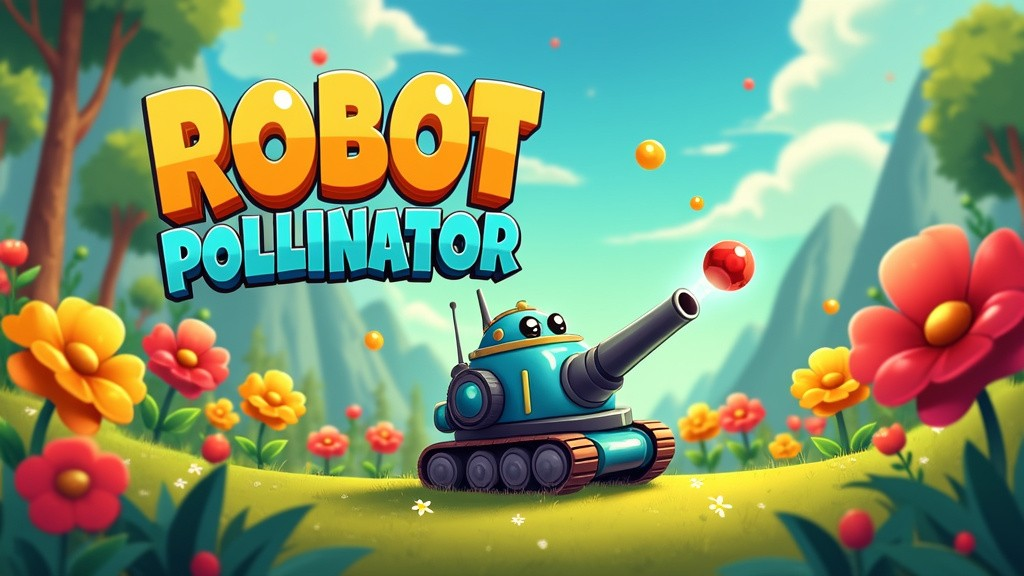
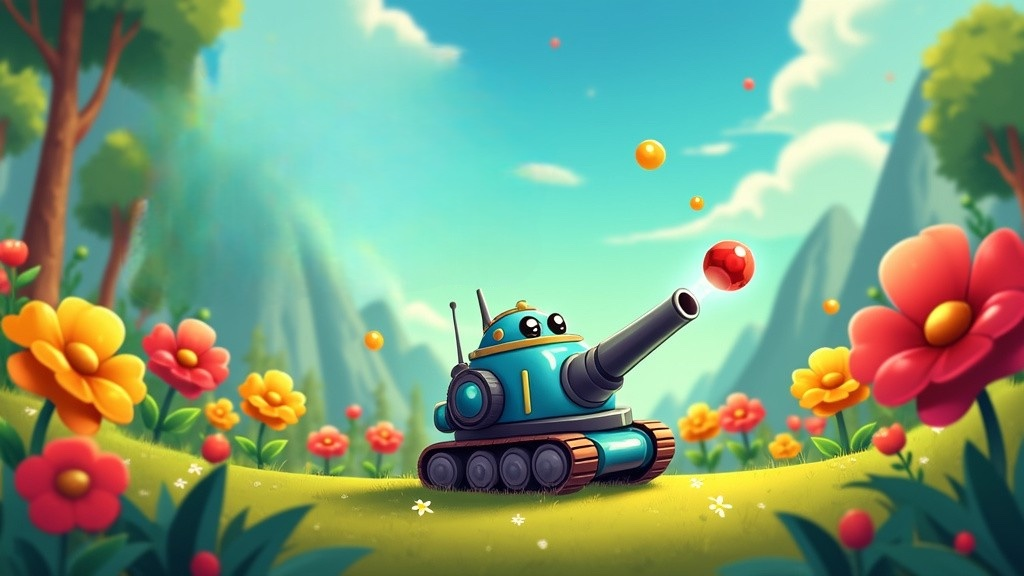
Added touch dynamics. Tap, double-tap and long-press.

Changed region(s): [[0.125, 0.0625, 0.5312, 0.5312]]

diff --git a/assets/js/game.js b/assets/js/game.js
@@ -22,9 +22,16 @@ function isMobileDevice() {
   );
 }
 
-// Usage example
 let isMobile = isMobileDevice();
 let gameMode = 'desktop';
+let bg = '';
+let title = '';
+
+// Mouse position tracking
+let mouseX = 0;
+let mouseY = 0;
+let touch;
+
 if (isMobile) {
   console.log("You're on a mobile device!");
   gameMode = 'mobile';
@@ -67,8 +74,8 @@ let gameSettings = {
   pointsPerMatch: 100,
   penaltyPoints: 100,
   bgMusic: '',
-  bgImage: 'assets/backgrounds/terrain.jpg',
-  titleBgImage: 'assets/backgrounds/title.jpg'
+  bgImage: bg,
+  titleBgImage: title
 };
 
 // Load settings from localStorage
@@ -385,14 +392,6 @@ class PollenBall {
     }
 }
 
-// Add mouse position tracking
-let mouseX = 0;
-let mouseY = 0;
-
-window.addEventListener('mousemove', (e) => {
-    mouseX = e.clientX;
-    mouseY = e.clientY - 100;
-});
 
 // Update robot drawing to show quadcopter appearance and current color
 function drawRobot() {
@@ -578,49 +577,163 @@ function gameLoop() {
 }
 
 // Event listeners
-window.addEventListener('contextmenu', (e) => {
-    e.preventDefault();
+if (gameActive && isMobile  === true) {
+
+  let tapCount = 0; // Variable to keep track of tap count
+  let lastTapTime = 0; // Variable to store the timestamp of the last tap
+  let longPressTimer = null; // Timer for long press
+  let longPressDelay = 1000; // Delay in milliseconds for long press
+  let preventLongPress = false; // Flag to prevent long press default behavior
+  const doubleTapDelay = 100; // Maximum time delay (in milliseconds) between two taps to be considered a double tap
+
+  // Add event listeners for touch events
+  document.addEventListener('touchstart', handleTouchStart, false);
+  document.addEventListener('touchend', handleTouchEnd, false);
+
+  function handleTouchStart(event) {
+    if (preventLongPress) {
+      event.preventDefault();
+    }
+    // Get the touch point coordinates
+    touch = event.touches[0]; // Get the first touch point
+
+    lastTapTime = new Date().getTime(); // Update the last tap timestamp
+
+    // Start the long press timer
+    longPressTimer = setTimeout(handleLongPress, longPressDelay);
+  }
+
+  function handleTouchEnd(event) {
+    if (preventLongPress) {
+      event.preventDefault();
+    }
+    // Clear the long press timer if a long press didn't occur
+    clearTimeout(longPressTimer);
+    longPressTimer = null;
+
+    const currentTime = new Date().getTime();
+    const tapDelay = currentTime - lastTapTime;
+
+    // Check if the tap delay is within the double tap delay threshold
+    if (tapDelay < doubleTapDelay) {
+      tapCount++;
+    } else {
+      tapCount = 1; // Reset the tap count for a new single tap
+    }
+
+    // Handle single tap and double tap events
+    if (tapCount === 1) {
+      // Single tap event
+      console.log('Single tap detected');
+      // Add your single tap logic here
+      mouseX = touch.clientX;
+      mouseY = touch.clientY - 100;
+    } else if (tapCount === 2) {
+      // Double tap event
+      console.log('Double tap detected');
+      // Add your double tap logic here
+      if (currentPollenColor) { 
+        document.getElementById('shootSound').play();
+        const angle = Math.atan2(mouseY - robot.y, mouseX - robot.x);
+        const speed = 10;
+        const count = currentPollenColors.get(currentPollenColor);
+        if (count > 0) {
+            pollenBalls.push(new PollenBall(
+                robot.x, robot.y,
+                Math.cos(angle) * speed,
+                Math.sin(angle) * speed,
+                currentPollenColor
+            ));
+            currentPollenColors.set(currentPollenColor, count - 1);
+            if (count === 1) {
+                currentPollenColors.delete(currentPollenColor);
+                const colors = Array.from(currentPollenColors.keys());
+                currentPollenColor = colors.length > 1 ? colors[0] : null;
+            }
+            if (currentPollenColors.get(currentPollenColor) == 0) {
+                currentPollenColors.delete(currentPollenColor);
+                if (currentPollenColors.size > 0) {
+                    currentPollenColor = Array.from(currentPollenColors.keys())[0];
+                } else {
+                    currentPollenColor = null;
+                }
+            } 
+        }       
+      updatePollenDisplay();  
+      }
+      tapCount = 0; // Reset the tap count
+      // Reset the preventLongPress flag
+      preventLongPress = false;
+    }
+  }
+
+  function handleLongPress() {
+    // Set the preventLongPress flag to true
+    preventLongPress = true;
+    // Handle long press event
+    console.log('Long press detected');
+    // Add your long press logic here
     if (currentPollenColors.size > 0) {
-        const colors = Array.from(currentPollenColors.keys());
-        const currentIndex = colors.indexOf(currentPollenColor);
-        currentPollenColor = colors[(currentIndex + 1) % colors.length];
+      const colors = Array.from(currentPollenColors.keys());
+      const currentIndex = colors.indexOf(currentPollenColor);
+      currentPollenColor = colors[(currentIndex + 1) % colors.length];
     }else{
       currentPollenColors.clear();
-    }
-});
-
-window.addEventListener('mousedown', (e) => {
-  if (e.button === 0 && currentPollenColor) { // Left click
-    document.getElementById('shootSound').play();
-    const angle = Math.atan2(mouseY - robot.y, mouseX - robot.x);
-    const speed = 10;
-    const count = currentPollenColors.get(currentPollenColor);
-    if (count > 0) {
-        pollenBalls.push(new PollenBall(
-            robot.x, robot.y,
-            Math.cos(angle) * speed,
-            Math.sin(angle) * speed,
-            currentPollenColor
-        ));
-        currentPollenColors.set(currentPollenColor, count - 1);
-        if (count === 1) {
-            currentPollenColors.delete(currentPollenColor);
-            const colors = Array.from(currentPollenColors.keys());
-            currentPollenColor = colors.length > 1 ? colors[0] : null;
-        }
-        if (currentPollenColors.get(currentPollenColor) == 0) {
-            currentPollenColors.delete(currentPollenColor);
-            if (currentPollenColors.size > 0) {
-                currentPollenColor = Array.from(currentPollenColors.keys())[0];
-            } else {
-                currentPollenColor = null;
-            }
-        } 
-    }       
-  updatePollenDisplay();  
+    }  
+    // Clear the long press timer
+    clearTimeout(longPressTimer);
+    longPressTimer = null;
   }
-});
 
+} else {
+  window.addEventListener('mousemove', (e) => {
+      mouseX = e.clientX;
+      mouseY = e.clientY - 100;
+  });
+
+  window.addEventListener('contextmenu', (e) => {
+      e.preventDefault();
+      if (currentPollenColors.size > 0) {
+          const colors = Array.from(currentPollenColors.keys());
+          const currentIndex = colors.indexOf(currentPollenColor);
+          currentPollenColor = colors[(currentIndex + 1) % colors.length];
+      }else{
+        currentPollenColors.clear();
+      }
+  });
+
+  window.addEventListener('mousedown', (e) => {
+    if (e.button === 0 && currentPollenColor) { // Left click
+      document.getElementById('shootSound').play();
+      const angle = Math.atan2(mouseY - robot.y, mouseX - robot.x);
+      const speed = 10;
+      const count = currentPollenColors.get(currentPollenColor);
+      if (count > 0) {
+          pollenBalls.push(new PollenBall(
+              robot.x, robot.y,
+              Math.cos(angle) * speed,
+              Math.sin(angle) * speed,
+              currentPollenColor
+          ));
+          currentPollenColors.set(currentPollenColor, count - 1);
+          if (count === 1) {
+              currentPollenColors.delete(currentPollenColor);
+              const colors = Array.from(currentPollenColors.keys());
+              currentPollenColor = colors.length > 1 ? colors[0] : null;
+          }
+          if (currentPollenColors.get(currentPollenColor) == 0) {
+              currentPollenColors.delete(currentPollenColor);
+              if (currentPollenColors.size > 0) {
+                  currentPollenColor = Array.from(currentPollenColors.keys())[0];
+              } else {
+                  currentPollenColor = null;
+              }
+          } 
+      }       
+    updatePollenDisplay();  
+    }
+  });
+}
 window.addEventListener('keydown', (e) => {
     if (e.code === 'KeyP' && gameActive) {
         isPaused = !isPaused;
@@ -718,6 +831,27 @@ setInterval(() => {
     }
 }, 16);
 
+// Function to get the screen width
+function getScreenWidth() {
+  return window.innerWidth || document.documentElement.clientWidth || document.body.clientWidth;
+}
+
+// Function to set the background image
+function setBackgroundImage() {
+  const screenWidth = getScreenWidth();
+  const body = document.body;
+
+  if (screenWidth <= 480) {
+    // Small screen, use mobile background image
+    bg = 'assets/backgrounds/terrain2.jpg';
+    title = 'assets/backgrounds/title2.jpg';
+  } else {
+    // Large screen, use desktop background image
+    bg = 'assets/backgrounds/terrain.jpg';
+    title = 'assets/backgrounds/titile2.jpg';
+  }
+}
+setBackgroundImage();
 loadSettings();
 // Start game loop
 gameLoop();

diff --git a/assets/css/styles.css b/assets/css/styles.css
@@ -108,6 +108,13 @@
     font-size: 18px;
     cursor: pointer;
   }
+  #title {
+    display: block;
+    width: 100%;
+    max-width: 479px;
+    max-height: 180px;
+    margin: 10px 0 0;
+  }
   #introScreen {
     position: fixed;
     top: 0;
@@ -277,3 +284,13 @@
     font-size: 24px;
     margin-bottom: 10px;
   }
+
+  /* Media query for small screens */
+@media (max-width: 480px) {
+  #introScreen {
+    background-image: url('../backgrounds/title2.jpg');
+  }
+  #gameCanvas {
+    background-image: url('../backgrounds/terrain2.jpg');
+  }
+}

diff --git a/index.html b/index.html
@@ -14,6 +14,7 @@
  
 <!-- Game Menu -->  
 <div id="introScreen">
+  <img id="title" src="assets/backgrounds/title-text.png">
   <div id="menuButtons">
     <button onclick="startGame()">Start Game</button>
     <button onclick="showInstructions()">Instructions</button>
